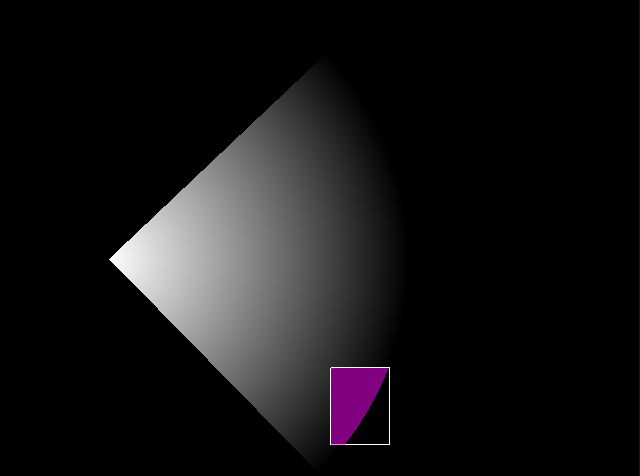
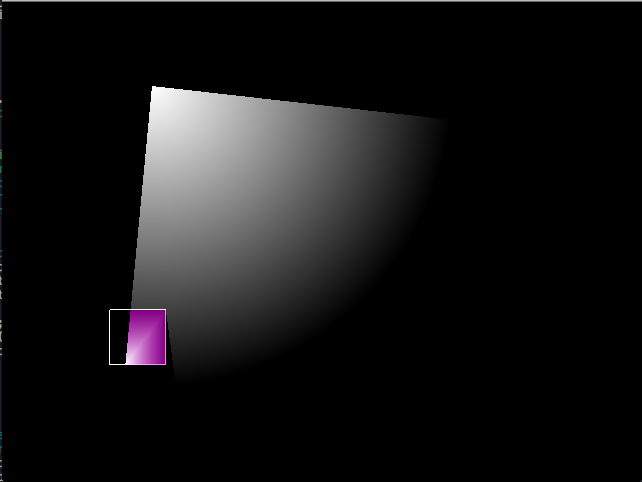
Add gradient, not fixed

Changed region(s): [[0.1562, 0.1471, 0.6562, 0.9412], [0.0, 0.0, 1.0, 0.0294], [0.0, 0.9706, 0.0312, 1.0]]

diff --git a/Trilight/light.cpp b/Trilight/light.cpp
@@ -151,10 +151,11 @@ void Light::render_clip(Rect object){
     }
     
     glBegin(GL_TRIANGLE_FAN);
-    glColor4f(1.0f, 0.0f, 1.0f, 0.5f);
     
+    glColor4f(specular.r, specular.g, specular.b, specular.a);
     for (int i = 0; i < clip_edges.size(); i++) {
         glVertex2f(clip_edges[i].get_start().x, clip_edges[i].get_start().y);
+        glColor4f(1.0f, 0.0f, 1.0f, 0.5f);
     }
     glEnd();
 }
